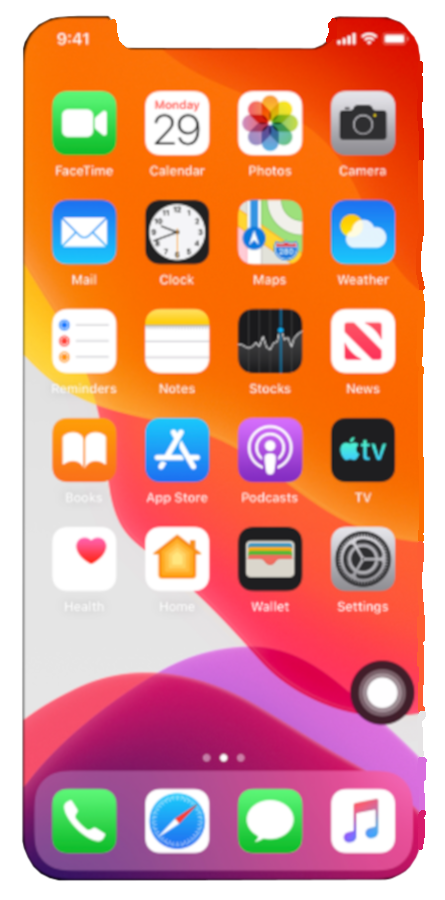
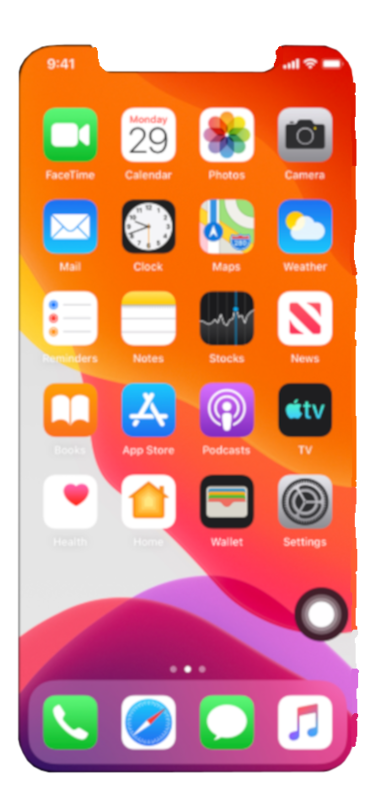
css prep for animation

diff --git a/styles.css b/styles.css
@@ -1,3 +1,9 @@
+/* Reset margin and padding of all elements*/
+* {
+    margin: 0;
+    padding: 0;
+  }
+
 body {
     background-color: #54626F;
     color: white;
@@ -25,7 +31,7 @@ body {
     display: inline-block;
     z-index: 0;
     height: 800px;
-    width: 395px ;
+    width: 375px ;
     background-image: url(resources/img/home-screen.png);
     background-size: cover;
     background-repeat: no-repeat;
@@ -34,10 +40,10 @@ body {
 }
 
 #phone-border{
-    z-index: 1;
+    z-index: 2;
     position: absolute;
     height: 800px;
-    width: 395px ;
+    width: 375px ;
     background-image: url(resources/img/screen-border.png);
     background-size: cover;
     background-repeat: no-repeat;
@@ -46,10 +52,11 @@ body {
 }
 
 #phone-lock-screen {
-    z-index: 2;
+    z-index: 1;
     position: absolute;
+    transform: translateY(0px);
     height: 800px;
-    width: 395px;
+    width: 375px;
     background-image: url(resources/img/lock-screen.png);
     background-size: cover;
     background-repeat: no-repeat;
@@ -79,11 +86,6 @@ body {
     background-size: cover;
     background-repeat: no-repeat;
 }
-
-
-
-
-
 
 
 /* Canvas container */
